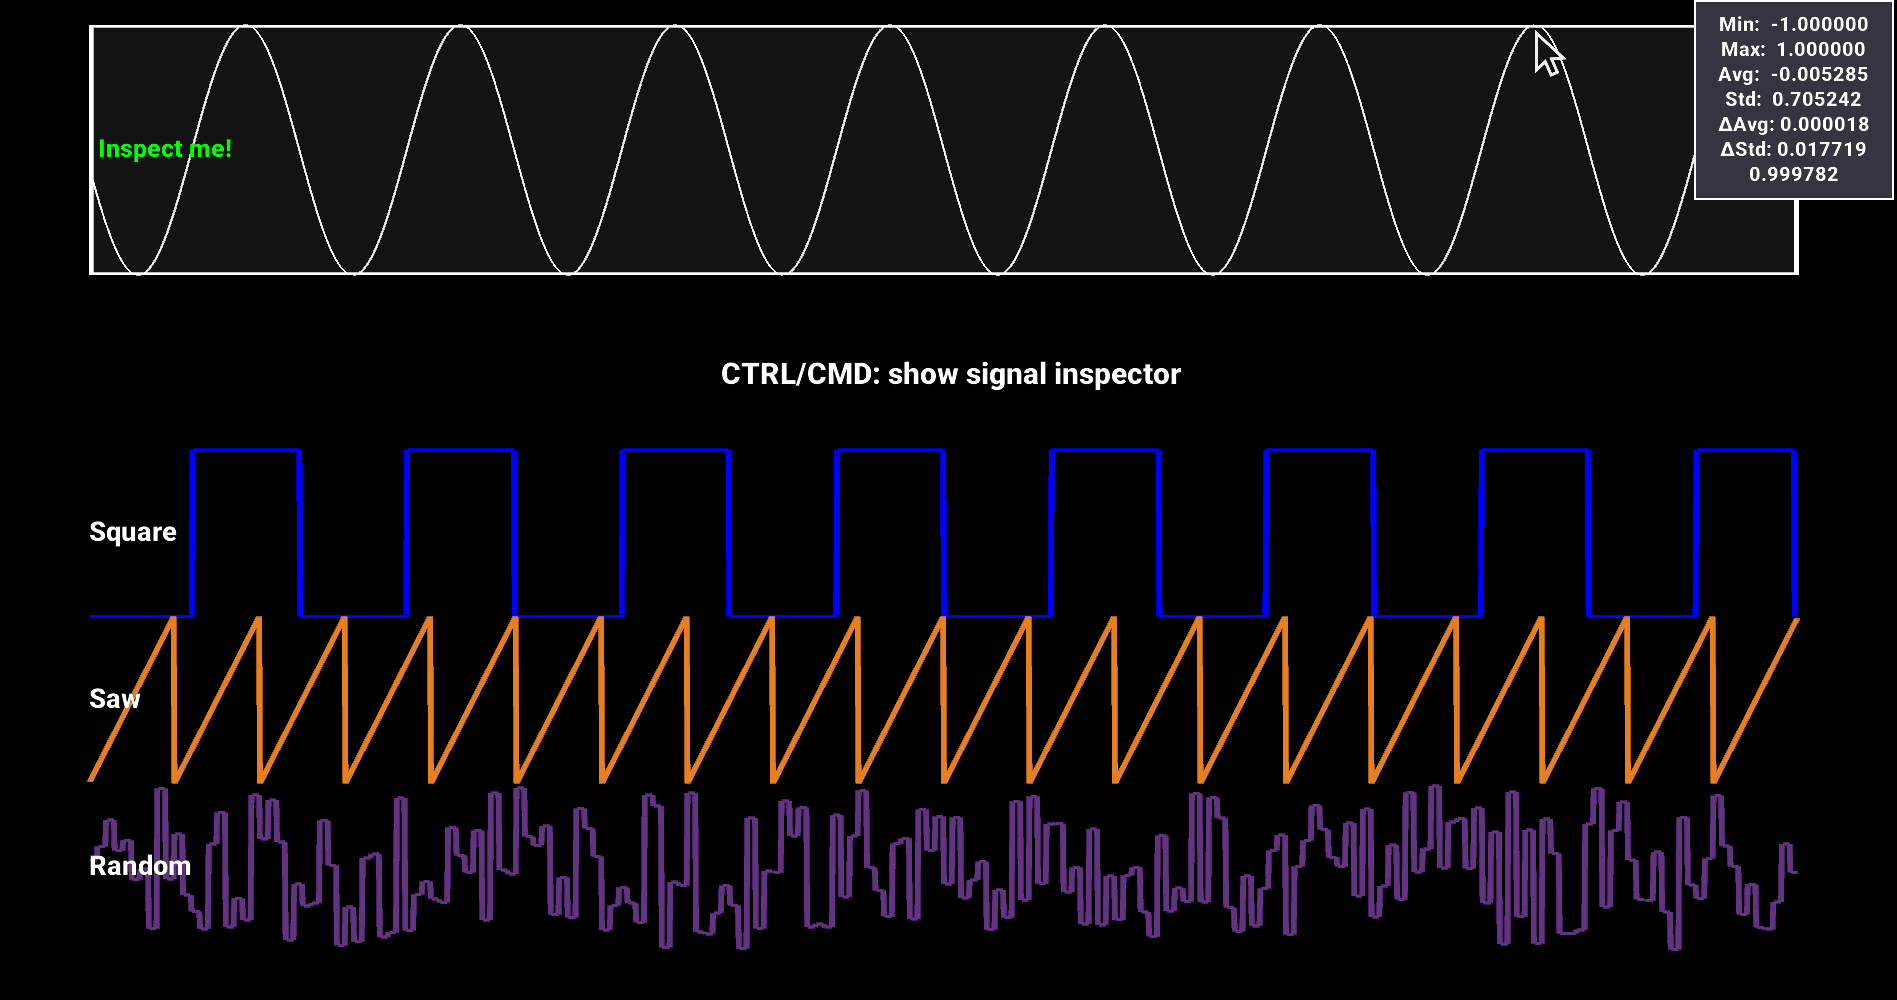
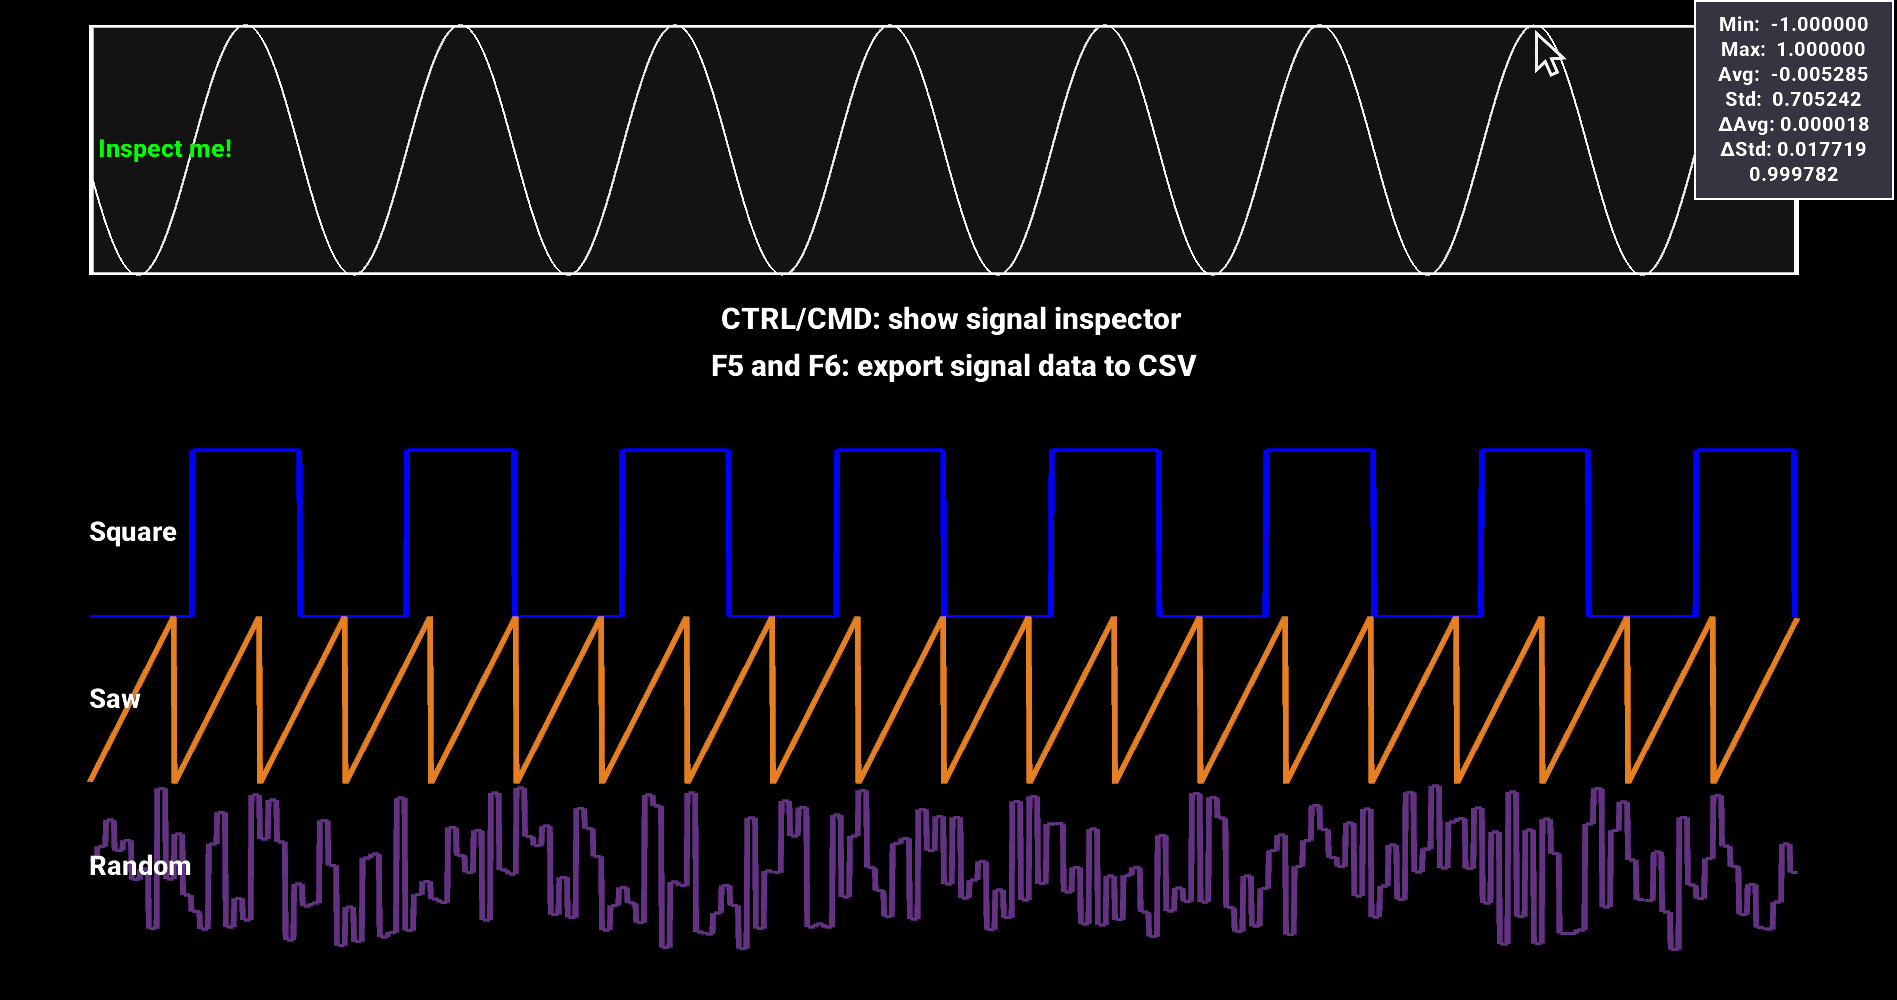
Add signal data export feature

Changed region(s): [[0.3732, 0.31, 0.622, 0.403]]

diff --git a/signal.go b/signal.go
@@ -58,6 +58,9 @@ type SignalLine struct {
 	inspectorKey         glfw.Key
 	inspectorActive      atomic.Bool
 	inspectKeyRegistered atomic.Bool
+
+	dataExportKey           glfw.Key
+	dataExportKeyRegistered atomic.Bool
 }
 
 type SignalGroup struct {
@@ -72,6 +75,9 @@ type SignalGroup struct {
 	inspectorKey         glfw.Key
 	inspectorActive      atomic.Bool
 	inspectKeyRegistered atomic.Bool
+
+	dataExportKey           glfw.Key
+	dataExportKeyRegistered atomic.Bool
 }
 
 type SignalInspector struct {
@@ -368,6 +374,10 @@ func (l *SignalLine) Init(window *Window) (ok bool) {
 	l.initLayout()
 	l.initialized.Store(true)
 
+	if l.dataExportKey != glfw.KeyUnknown {
+		l.EnableDataExportKey(l.dataExportKey)
+	}
+
 	if l.inspectorKey != glfw.KeyUnknown {
 		l.EnableInspector()
 	}
@@ -534,6 +544,20 @@ func (l *SignalLine) SetWindow(window *Window) WindowObject {
 	return l
 }
 
+func (l *SignalLine) EnableDataExportKey(key glfw.Key) *SignalLine {
+	l.dataExportKey = key
+	if l.dataExportKeyRegistered.Load() || !l.initialized.Load() {
+		return l
+	}
+	l.dataExportKeyRegistered.Store(true)
+
+	l.window.AddKeyEventHandler(key, glfw.Press, func(window *Window, key glfw.Key, action glfw.Action) {
+		_ = ExportSignalDataToCsv(l)
+	})
+
+	return l
+}
+
 /******************************************************************************
  SignalGroup Functions
 ******************************************************************************/
@@ -568,6 +592,10 @@ func (g *SignalGroup) Init(window *Window) (ok bool) {
 
 	g.initLayout(window)
 	g.initialized.Store(true)
+
+	if g.dataExportKey != glfw.KeyUnknown {
+		g.EnableDataExportKey(g.dataExportKey)
+	}
 
 	if g.inspectorKey != glfw.KeyUnknown {
 		g.EnableInspector()
@@ -743,6 +771,20 @@ func (g *SignalGroup) SetWindow(window *Window) WindowObject {
 		s.SetWindow(window)
 	}
 	g.stateMutex.Unlock()
+	return g
+}
+
+func (g *SignalGroup) EnableDataExportKey(key glfw.Key) *SignalGroup {
+	g.dataExportKey = key
+	if g.dataExportKeyRegistered.Load() || !g.initialized.Load() {
+		return g
+	}
+	g.dataExportKeyRegistered.Store(true)
+
+	g.window.AddKeyEventHandler(key, glfw.Press, func(window *Window, key glfw.Key, action glfw.Action) {
+		_ = ExportSignalGroupDataToCsv(g)
+	})
+
 	return g
 }
 
@@ -944,9 +986,10 @@ func NewSignal(label string, bufferSize int) *Signal {
 
 func NewSignalLine(label string, sampleCount int) *SignalLine {
 	sl := &SignalLine{
-		View:   *NewView(),
-		Signal: *NewSignal(label, sampleCount),
-		label:  NewLabel().SetText(label),
+		View:          *NewView(),
+		Signal:        *NewSignal(label, sampleCount),
+		label:         NewLabel().SetText(label),
+		dataExportKey: glfw.KeyUnknown,
 	}
 
 	sl.fill.SetParent(sl)
@@ -957,8 +1000,8 @@ func NewSignalLine(label string, sampleCount int) *SignalLine {
 
 	sl.vertices = make([]float32, sampleCount*2)
 	sl.vertexCount = int32(sampleCount)
-	sl.inspectorKey = glfw.KeyUnknown
 
+	sl.inspectorKey = glfw.KeyUnknown
 	sl.inspector = NewSignalInspector(sl)
 	sl.inspector.MaintainAspectRatio(false)
 
@@ -980,6 +1023,7 @@ func NewSignalGroup(defaultSampleCount int, defaultLineThickness int, colors ...
 		defaultThickness:   uint(defaultLineThickness),
 		defaultColors:      colors,
 		inspectorKey:       glfw.KeyUnknown,
+		dataExportKey:      glfw.KeyUnknown,
 	}
 
 	sg.inspectorKey = glfw.KeyUnknown

diff --git a/io.go b/io.go
@@ -1,0 +1,107 @@
+package gfx
+
+import (
+	"encoding/csv"
+	"fmt"
+	"os"
+	"strconv"
+	"time"
+)
+
+const (
+	defaultSignalDataFilename = "signal_data_%d.csv"
+)
+
+func getSignalDataCsvFilename(filenameTemplate ...string) string {
+	template := defaultSignalDataFilename
+	if len(filenameTemplate) > 0 {
+		template = filenameTemplate[0]
+	}
+	return fmt.Sprintf(template, time.Now().UnixMilli())
+}
+
+func ExportSignalDataToCsv(line *SignalLine, filenameTemplate ...string) error {
+	line.Signal.Lock()
+	data := make([]float64, line.Signal.dataSize)
+	copy(data, line.Signal.data)
+	line.Signal.Unlock()
+
+	filename := getSignalDataCsvFilename(filenameTemplate...)
+
+	file, err := os.Create(filename)
+	if err != nil {
+		return fmt.Errorf("error creating signal data file: %w", err)
+	}
+	defer func(file *os.File) {
+		if e := file.Close(); e != nil {
+			panic(fmt.Errorf("error closing signal data file: %w", e))
+		}
+	}(file)
+
+	writer := csv.NewWriter(file)
+	defer writer.Flush()
+
+	if err = writer.Write([]string{line.Name()}); err != nil {
+		return fmt.Errorf("error writing to signal data file: %w", err)
+	}
+
+	for _, d := range data {
+		dStr := strconv.FormatFloat(d, 'f', -1, 64)
+		if err = writer.Write([]string{dStr}); err != nil {
+			return fmt.Errorf("error writing to signal data file: %w", err)
+		}
+	}
+
+	return nil
+}
+
+func ExportSignalGroupDataToCsv(group *SignalGroup, filenameTemplate ...string) error {
+	signals := group.Signals()
+	if len(signals) == 0 {
+		return fmt.Errorf("no signals in the group")
+	}
+
+	filename := getSignalDataCsvFilename(filenameTemplate...)
+
+	file, err := os.Create(filename)
+	if err != nil {
+		return fmt.Errorf("error creating signal group data file: %w", err)
+	}
+	defer func(file *os.File) {
+		if e := file.Close(); e != nil {
+			panic(fmt.Errorf("error closing signal group data file: %w", e))
+		}
+	}(file)
+
+	writer := csv.NewWriter(file)
+	defer writer.Flush()
+
+	header := make([]string, len(signals))
+	for i, line := range signals {
+		header[i] = line.Name()
+	}
+	if err = writer.Write(header); err != nil {
+		return fmt.Errorf("error writing header to signal group data file: %w", err)
+	}
+
+	// Warning: assumes all signals in the group have the same data size!
+	dataSize := signals[0].Signal.dataSize
+
+	for i := 0; i < dataSize; i++ {
+		row := make([]string, len(signals))
+		for j, line := range signals {
+			line.Signal.Lock()
+			if i < len(line.Signal.data) {
+				row[j] = strconv.FormatFloat(line.Signal.data[i], 'f', -1, 64)
+			} else {
+				row[j] = ""
+			}
+			line.Signal.Unlock()
+		}
+		if err = writer.Write(row); err != nil {
+			return fmt.Errorf("error writing data to signal group data file: %w", err)
+		}
+	}
+
+	return nil
+}

diff --git a/examples/ui/view/signal.go b/examples/ui/view/signal.go
@@ -92,9 +92,15 @@ func NewSignalsView(ctx context.Context, window *gfx.Window, signalSampleCount i
 }
 
 func NewSignalInspectorView(ctx context.Context, window *gfx.Window, signalSampleCount int) gfx.WindowObject {
-	inspectorHelp := gfx.NewLabel()
-	inspectorHelp.
+	inspectorHelp1 := gfx.NewLabel()
+	inspectorHelp1.
 		SetText("CTRL/CMD: show signal inspector").
+		SetFontSize(.03).
+		SetPositionY(.35)
+
+	inspectorHelp2 := gfx.NewLabel()
+	inspectorHelp2.
+		SetText("F5 and F6: export signal data to CSV").
 		SetFontSize(.03).
 		SetPositionY(.25)
 
@@ -108,6 +114,7 @@ func NewSignalInspectorView(ctx context.Context, window *gfx.Window, signalSampl
 	sig.EnableInspector()
 	sig.SetInspectorAnchor(gfx.TopRight)
 	sig.SetInspectorMargin(gfx.Margin{Top: .05, Right: .05})
+	sig.EnableDataExportKey(glfw.KeyF5)
 
 	//sig.SetInspectorFontSize(.1)  // probably don't ever need to call this method
 	//sig.SetInspectorPanelSize(.5) // use this method to change the inspector scale
@@ -132,6 +139,7 @@ func NewSignalInspectorView(ctx context.Context, window *gfx.Window, signalSampl
 	sg.EnableInspector()
 	sg.SetInspectorAnchor(gfx.BottomRight)
 	sg.SetInspectorMargin(gfx.Margin{Bottom: .05, Right: .05})
+	sg.EnableDataExportKey(glfw.KeyF6)
 
 	signalCount := 3
 
@@ -202,7 +210,8 @@ func NewSignalInspectorView(ctx context.Context, window *gfx.Window, signalSampl
 	}(ctx, sg)
 
 	container := gfx.NewObject(nil)
-	container.AddChild(inspectorHelp)
+	container.AddChild(inspectorHelp1)
+	container.AddChild(inspectorHelp2)
 	container.AddChild(sig)
 	container.AddChild(sg)
 
